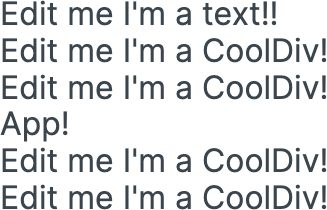
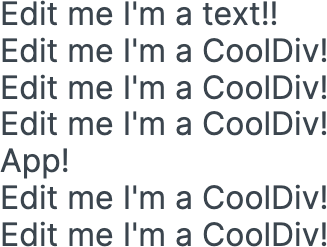
[ecu] Delete component App in App

diff --git a/app/src/App.tsx b/app/src/App.tsx
@@ -27,7 +27,7 @@ function App(props: AppPropsType) {
       
       
       <CoolDiv />
-      <CoolDiv />
+      
       <CoolDiv />
       
       <Text data-ecu="liPz3SHBxY:1">App!</Text>
